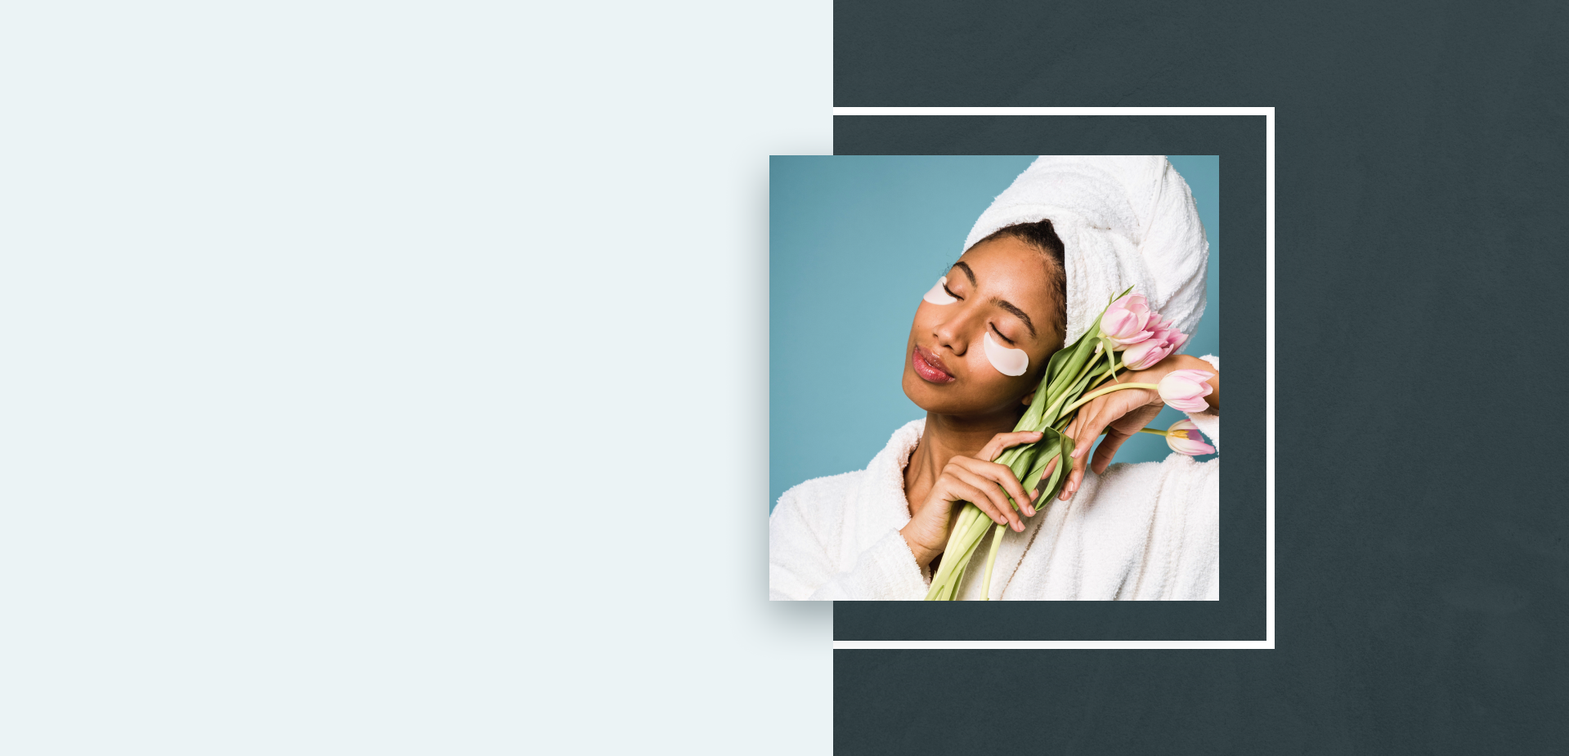
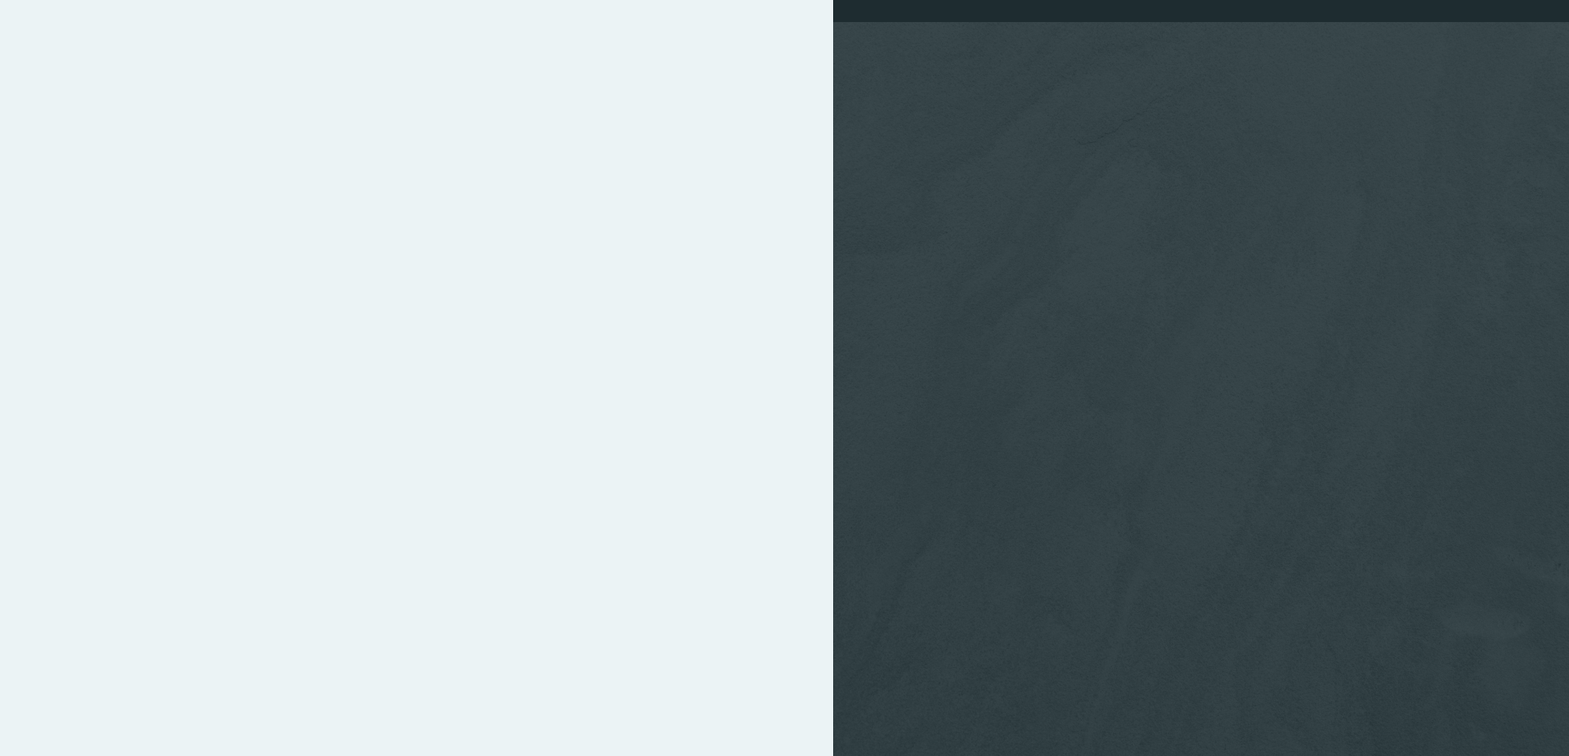
hero and forms inpruved

Changed region(s): [[0.4612, 0.1211, 0.8301, 0.8778], [0.5227, 0.0, 1.0, 0.0303]]

diff --git a/src/css/style.min.css b/src/css/style.min.css
@@ -1,1 +1,1 @@
-@import url(https://fonts.googleapis.com/css2?family=DM+Sans&family=Manrope:wght@400;500;600;700&family=Playfair:wght@400;700&display=swap);*{margin:0;padding:0;box-sizing:border-box;text-decoration:none;list-style-type:none;font-family:"Playfair Display"}body,html{height:100%}.wrapper{min-height:100%;display:flex;flex-direction:column}.main{flex:1 1 auto}.header{padding:38px 0;width:100%;background-color:#fff}.header__container{display:grid;grid-template-columns:5fr 5fr;justify-content:space-between;align-items:center;-moz-column-gap:10px;column-gap:10px;max-width:1680px;margin:0 auto;padding:0 60px}.header__start{display:flex;justify-content:space-between;align-items:center;max-width:502px}.header__logo{display:flex;justify-content:space-between;align-items:center;-moz-column-gap:8px;column-gap:8px}.header__logo_text{font-weight:700;font-size:1.75rem;line-height:125%;color:#141414}.header__call{display:flex;justify-content:space-between;align-items:center;-moz-column-gap:8px;column-gap:8px}.header__call_text{font-family:Manrope;font-weight:600;font-size:1.125rem;line-height:125%;letter-spacing:-.01em;color:#141414}.header__nav{display:grid;grid-template-columns:2fr .5fr 200px .5fr;-moz-column-gap:20px;column-gap:20px;justify-content:space-between;align-items:center}.header__menu{display:flex;justify-content:space-between;align-items:center;-moz-column-gap:10px;column-gap:10px}.header__menu_link{font-family:Manrope;font-weight:400;font-size:1.125rem;line-height:125%;color:#555}.header__sm{display:flex;justify-content:space-between;align-items:center;-moz-column-gap:10px;column-gap:10px}.header__btn{display:flex;justify-content:space-between;align-items:center;font-family:Manrope;font-weight:700;font-size:.875rem;line-height:125%;color:#fff;background-color:#7a9ca5;text-transform:uppercase;letter-spacing:12%;-moz-column-gap:12px;column-gap:12px;padding:16px 33px}.header__burger{display:flex;flex-direction:column;row-gap:5px;width:30px;opacity:0;position:absolute}.header__burger_item{width:100%;height:2px;background-color:#7a9ca5}.accordion{background-color:rgba(0,0,0,0);border:none;cursor:pointer;position:relative}.panel{background-color:#fff;padding:5px;text-align:center;overflow:hidden;display:none;border:1px #7a9ca5 solid;border-top:none;position:absolute;left:50%;margin-top:20px}.panel__item{font-family:Manrope;font-weight:400;font-size:1.1875rem;line-height:170%;color:#555;display:block}@media(max-width:1200px){.header__call{display:none}}@media(max-width:930px){.header__nav{grid-template-columns:.5fr 1fr .15fr}.header__menu{display:none}.header__burger{opacity:100%;position:relative}}@media(max-width:628px){.header__btn{display:none}.header__nav{grid-template-columns:1fr}.header__sm{display:none}.header__burger{justify-self:end;cursor:pointer}}.hero{background-image:url(../img/hero__bg.png);background-repeat:no-repeat;background-position:center top;background-size:100vw}.hero__container{max-width:1200px;margin:0 auto;padding:150px 0}.hero__suptitle{font-family:Manrope;font-weight:600;font-size:.9375rem;line-height:154.5%;letter-spacing:.1em;text-transform:uppercase;color:#7a9ca5;margin-bottom:9px;display:flex;align-items:center;-moz-column-gap:9px;column-gap:9px}.hero__title{font-weight:700;font-size:4.375rem;line-height:115%;letter-spacing:-.01em;color:#141414;max-width:510px}.hero__text{font-family:Manrope;font-weight:400;font-size:1.1875rem;line-height:170%;color:#555;max-width:508px;margin:24px 0 34px 0}.hero__btn{font-family:Manrope;font-weight:700;font-size:.875rem;line-height:125%;color:#fff;background-color:#7a9ca5;text-transform:uppercase;letter-spacing:12%;padding:24px 36px;display:inline-block}@media(max-width:1200px){.hero{background-color:#ebf3f5;background-image:none}.hero__cta{text-align:center}.hero__suptitle{margin:0 auto;display:inline-block}.hero__title{margin:0 auto}.hero__text{margin:0 auto;padding:24px 0 34px 0}}@media(max-width:628px){.hero__title{font-size:60px}}.therapie__container{display:flex;justify-content:space-between;align-items:center;max-width:1200px;margin:0 auto;padding:150px 0}.therapie__item{max-width:330px}.therapie__img_wrapper{width:330px;height:250px;overflow:hidden}.therapie__title{font-weight:700;font-size:1.625rem;line-height:120%;color:#141414;margin-top:26px}.therapie__text{font-family:Manrope;font-weight:400;font-size:1.1875rem;line-height:170%;color:#555;margin:11px 0 30px 0}.therapie__btn{font-family:Manrope;font-weight:800;font-size:.875rem;line-height:125%;text-align:center;letter-spacing:.12em;text-transform:uppercase;color:#141414;padding:18px 43px;border:2px #7a9ca5 solid;display:inline-block}@media(max-width:1200px){.therapie__container{flex-direction:column;row-gap:40px}.therapie__item{max-width:100%;text-align:center}.therapie__img_wrapper{width:100%;height:100%}}.about{background-color:#ebf3f5}.about__container{display:flex;justify-content:space-between;align-items:center;max-width:1200px;margin:0 auto;padding:150px 0}.about__cta{max-width:529px}.about__suptitle{font-family:Manrope;font-weight:600;font-size:.9375rem;line-height:154.5%;letter-spacing:.1em;text-transform:uppercase;color:#7a9ca5;margin-bottom:9px}.about__title{font-weight:700;font-size:2.8125rem;line-height:130%;letter-spacing:-.01em;color:#141414;max-width:377px}@media(max-width:1200px){.about__title{font-size:37px;margin:0 auto}}.about__text{font-family:Manrope;font-weight:400;font-size:1.1875rem;line-height:170%;color:#555;margin-top:16px}.about__ad{display:flex;justify-content:space-between;align-items:center;margin-top:37px;max-width:515px}.about__ad_item{display:flex;justify-content:space-between;align-items:center;flex-direction:column;row-gap:14px;background-color:#fff;padding:21px 11px;border:1px #1e2c30 solid;max-height:180px}.about__ad_title{font-weight:700;font-size:1.375rem;line-height:120%;color:#141414}@media(max-width:1200px){.about__container{flex-direction:column;row-gap:40px}.about__cta{margin:0 auto;text-align:center}}@media(max-width:628px){.about__img{width:80%;display:block;margin:0 auto}.about__ad{flex-direction:column;row-gap:20px}.about__ad_item{width:80%}}.testemonials{background-color:#ebf3f5}.testemonials__container{max-width:1200px;margin:0 auto;padding:150px 0}.testemonials__start{text-align:center}.testemonials__suptitle{font-family:Manrope;font-weight:600;font-size:.9375rem;line-height:154.5%;letter-spacing:.1em;text-transform:uppercase;color:#7a9ca5;margin-bottom:9px}.testemonials__title{font-weight:700;font-size:2.8125rem;line-height:130%;letter-spacing:-.01em;color:#141414}@media(max-width:1200px){.testemonials__title{font-size:37px;margin:0 auto}}.testemonials__item{max-width:582px}.testemonials__item_wrapper{display:flex;justify-content:space-between;align-items:center;margin-top:40px}.testemonials__text{font-family:Manrope;font-weight:400;font-size:1.1875rem;line-height:170%;color:#555;color:#141414;max-width:485px}.testemonials__text_wrapper{background-color:#fff;padding:44px}.testemonials__info{display:flex;justify-content:space-between;align-items:center;background-color:#1e2c30;padding:44px}.testemonials__img{border:5px #fff solid}.testemonials__img_wrapper{width:74px;height:74px}.testemonials__user{display:flex;justify-content:space-between;align-items:center;-moz-column-gap:20px;column-gap:20px}.testemonials__user_info{color:#fff}@media(max-width:1200px){.testemonials__item_wrapper{flex-direction:column;row-gap:40px}}@media(max-width:628px){.testemonials__info{justify-content:center}.testemonials__brakets{display:none}}.advent__container{max-width:1200px;margin:0 auto;padding:150px 0}.advent__start{text-align:center}.advent__suptitle{font-family:Manrope;font-weight:600;font-size:.9375rem;line-height:154.5%;letter-spacing:.1em;text-transform:uppercase;color:#7a9ca5;margin-bottom:9px}.advent__title{font-weight:700;font-size:2.8125rem;line-height:130%;letter-spacing:-.01em;color:#141414}@media(max-width:1200px){.advent__title{font-size:37px;margin:0 auto}}.advent__item_wrapper{margin-top:43px;display:grid;grid-template-columns:repeat(3,1fr);justify-content:space-between;gap:35px}.advent__item_title{font-weight:700;font-size:1.625rem;line-height:120%;color:#141414;margin-top:20px;max-width:320px}.advent__item_text{font-family:Manrope;font-weight:400;font-size:1.1875rem;line-height:170%;color:#555;margin-top:11px}@media(max-width:1200px){.advent__item{text-align:center}.advent__item_wrapper{grid-template-columns:repeat(2,1fr)}.advent__item_title{margin:0 auto}.advent__img{margin-bottom:20px}}@media(max-width:930px){.advent__item_wrapper{grid-template-columns:1fr}}.services__container{max-width:1200px;margin:0 auto;padding:150px 0}.services__start{text-align:center;max-width:659px;margin:0 auto}.services__suptitle{font-family:Manrope;font-weight:600;font-size:.9375rem;line-height:154.5%;letter-spacing:.1em;text-transform:uppercase;color:#7a9ca5;margin-bottom:9px}.services__title{font-weight:700;font-size:2.8125rem;line-height:130%;letter-spacing:-.01em;color:#141414}@media(max-width:1200px){.services__title{font-size:37px;margin:0 auto}}.services__btn{text-transform:uppercase;text-align:center;padding:24px 34px;background-color:#fff;border:2px #5c8692 solid;display:inline-block;margin-top:58px;font-family:Manrope;font-weight:800;font-size:.875rem;line-height:125%;letter-spacing:.12em;color:#141414}.services__item_wrapper{display:grid;grid-template-columns:repeat(2,1fr);justify-content:space-between;margin-top:50px;background-image:url(../img/services__bg.png);background-repeat:no-repeat;background-position:center center}.services__menu{max-width:530px!important}.services__menu_item{padding-bottom:22px;border-bottom:1px #9bb7bf solid}.services__menu_title{font-family:"Playfair Display";font-weight:700;font-size:1.375rem;line-height:130%;color:#141414}.services__menu_text{font-family:Manrope;font-weight:400;font-size:1.1875rem;line-height:170%;color:#555}.order{order:2}@media(max-width:1200px){.services__item{justify-self:center!important;align-self:stretch;text-align:center}.services__item_wrapper{grid-template-columns:1fr;background-image:none;gap:40px}.services__btn_wrapper{margin:0 auto;text-align:center}.order{order:0}}@media(max-width:628px){.services__img{width:70%;display:block;margin:0 auto}}.flat{background-color:#edf5f7}.flat__container{max-width:1200px;margin:0 auto;padding:150px 0;display:flex;justify-content:space-between;align-items:center}.flat__cta{max-width:534px}.flat__suptitle{font-family:Manrope;font-weight:600;font-size:.9375rem;line-height:154.5%;letter-spacing:.1em;text-transform:uppercase;color:#7a9ca5;margin-bottom:9px}.flat__title{font-weight:700;font-size:2.8125rem;line-height:130%;letter-spacing:-.01em;color:#141414;max-width:435px}@media(max-width:1200px){.flat__title{font-size:37px;margin:0 auto}}.flat__text{font-family:Manrope;font-weight:400;font-size:1.1875rem;line-height:170%;color:#555;margin-top:14px}.flat__offer{display:flex;justify-content:space-between;align-items:center;max-width:445px;margin-top:37px}.flat__offer_container{background-color:#fff;padding:19px 40px;display:flex;flex-direction:column;row-gap:18px}.flat__offer_item{display:flex;-moz-column-gap:19px;column-gap:19px}.flat__offer_dots{display:flex;-moz-column-gap:6px;column-gap:6px;padding-top:8px}.flat__offer_dot{width:6px;height:6px;background-color:#5c8692;border-radius:50%;display:block}.flat__offer_title{font-weight:800;text-transform:uppercase;font-family:Manrope;font-size:.9375rem;line-height:150%;color:#141414;letter-spacing:8%}.flat__offer_text{font-weight:500;font-family:Manrope;font-size:.9375rem;line-height:150%;color:#141414}.flat__sale{padding:12px 34px;background-color:#1e2c30;color:#fff!important;display:flex;flex-direction:column;align-items:center;text-align:center}.flat__sale_title{font-family:Manrope;font-weight:800;font-size:1.125rem;line-height:175%;text-transform:uppercase}.flat__sale_text{font-family:Manrope;font-weight:800;font-size:1.125rem;line-height:175%;letter-spacing:.02em}.flat__sale .big__text{font-family:Manrope;font-weight:900;font-size:48px}.flat__sale .normal__text{font-family:Manrope;font-weight:400;font-size:20px}.flat__form{padding:66px 75px;background-color:#fff;display:flex;flex-direction:column;row-gap:15px;width:47%}.flat__form_item{border:1px #7a9ca5 solid;padding:18px;display:flex}.flat__form_input{font-family:Manrope;font-weight:400;font-size:1.1875rem;line-height:170%;color:#555;width:100%;height:29px;border:none;padding:0 15px;outline:0}.flat__form_btn{font-family:Manrope;font-weight:700;font-size:.875rem;line-height:125%;color:#fff;background-color:#7a9ca5;text-transform:uppercase;letter-spacing:12%;border:none;padding:23px;cursor:pointer}@media(max-width:1200px){.flat__container{flex-direction:column;row-gap:40px}.flat__cta{margin:0 auto;text-align:center}.flat__offer{margin:0 auto;padding-top:37px;text-align:left}.flat__form{width:80%;align-items:center}}@media(max-width:628px){.flat__offer{flex-direction:column;width:70%}.flat__offer_container{width:100%}.flat__offer_item{flex-direction:column;row-gap:10px}.flat__sale{width:100%}}.blog__container{max-width:1200px;margin:0 auto;padding:150px 0}.blog__start{text-align:center}.blog__suptitle{font-family:Manrope;font-weight:600;font-size:.9375rem;line-height:154.5%;letter-spacing:.1em;text-transform:uppercase;color:#7a9ca5;margin-bottom:9px}.blog__title{font-weight:700;font-size:2.8125rem;line-height:130%;letter-spacing:-.01em;color:#141414}@media(max-width:1200px){.blog__title{font-size:37px;margin:0 auto}}.blog__item{max-width:370px}.blog__item_wrapper{display:flex;justify-content:space-between;align-items:center;margin-top:40px}.blog__item_img{display:flex;width:100%}.blog__item_title{font-weight:700;font-size:1.375rem;line-height:140%;max-width:280px;letter-spacing:2%;margin-top:8px}.blog__item_text{font-family:Manrope;font-weight:400;font-size:1.1875rem;line-height:170%;color:#555}.blog__info{padding:30px 27px;background-color:#ebf3f5}.blog__date{display:flex;justify-content:space-between;align-items:center}.blog__date_text{font-family:Manrope;font-weight:700;font-size:.8125rem;line-height:125%;letter-spacing:.06em;text-transform:uppercase;color:#7a9ca5}.blog__btn{padding:23px 40px;background-color:#fff;color:#141414;text-transform:uppercase;font-family:Manrope;font-weight:800;font-size:.875rem;line-height:125%;letter-spacing:.02em;border:2px #7a9ca5 solid;display:inline-block}.blog__btn_wrapper{text-align:center;margin-top:60px}.line{width:19px;height:2px;border-color:#272d32;display:block}@media(max-width:1200px){.blog__item{max-width:80%}.blog__item_wrapper{flex-direction:column;row-gap:40px}}@media(max-width:628px){.blog__date{flex-direction:column;row-gap:10px}}.footer{width:100%;background-color:#1e2c30}.footer__container{max-width:1200px;margin:0 auto;padding:150px 0;padding:60px 0}.footer__start{display:flex;justify-content:space-between;align-items:center}.footer__logo{display:flex;justify-content:space-between;align-items:center;-moz-column-gap:17px;column-gap:17px}.footer__logo_text{font-weight:700;font-size:1.75rem;line-height:125%;color:#fff}.footer__sm{display:flex;justify-content:space-between;align-items:center;-moz-column-gap:10px;column-gap:10px}.footer__sm_item{padding:17px 22px;border:2px #7a9ca5 solid}.footer__offer{display:grid;grid-template-columns:.5fr .5fr .5fr .25fr;justify-content:space-between;margin-top:66px;color:#fff}.footer__offer_item{display:flex;flex-direction:column;row-gap:21px}.footer__offer_title{font-weight:700;font-size:1.375rem;line-height:140%}.footer__menu{display:flex;flex-direction:column;row-gap:14px}.footer__menu_link{font-family:Manrope;font-weight:500;font-size:1.0625rem;line-height:200%;letter-spacing:-.01em;color:#fff}.footer__row{width:100%;background-color:#111e22;color:#fff;text-align:center;padding:20px 0}.footer__row_text{font-family:Manrope;font-weight:400;font-size:.9375rem;line-height:200%;letter-spacing:-.01em}@media(max-width:1200px){.footer__offer{grid-template-columns:repeat(2,1fr);text-align:center;gap:40px}.footer__offer_item{justify-self:center}}@media(max-width:628px){.footer__start{flex-direction:column;row-gap:40px}.footer__offer{grid-template-columns:1fr}}
+@import url(https://fonts.googleapis.com/css2?family=DM+Sans&family=Manrope:wght@400;500;600;700&family=Playfair:wght@400;700&display=swap);*{margin:0;padding:0;box-sizing:border-box;text-decoration:none;list-style-type:none;font-family:"Playfair Display"}body,html{height:100%}.wrapper{min-height:100%;display:flex;flex-direction:column}.main{flex:1 1 auto}.header{padding:38px 0;width:100%;background-color:#fff;position:sticky;top:0;z-index:99;box-shadow:0 6px 5px 0 rgba(0,0,0,.23)}.header__container{display:grid;grid-template-columns:5fr 5fr;justify-content:space-between;align-items:center;-moz-column-gap:10px;column-gap:10px;max-width:1680px;margin:0 auto;padding:0 60px}.header__start{display:flex;justify-content:space-between;align-items:center;max-width:502px}.header__logo{display:flex;justify-content:space-between;align-items:center;-moz-column-gap:8px;column-gap:8px}.header__logo_text{font-weight:700;font-size:1.75rem;line-height:125%;color:#141414}.header__call{display:flex;justify-content:space-between;align-items:center;-moz-column-gap:8px;column-gap:8px}.header__call_text{font-family:Manrope;font-weight:600;font-size:1.125rem;line-height:125%;letter-spacing:-.01em;color:#141414}.header__nav{display:grid;grid-template-columns:2fr .5fr 200px .5fr;-moz-column-gap:20px;column-gap:20px;justify-content:space-between;align-items:center}.header__menu{display:flex;justify-content:space-between;align-items:center;-moz-column-gap:10px;column-gap:10px}.header__menu_link{font-family:Manrope;font-weight:400;font-size:1.125rem;line-height:125%;color:#555}.header__sm{display:flex;justify-content:space-between;align-items:center;-moz-column-gap:10px;column-gap:10px}.header__btn{display:flex;justify-content:space-between;align-items:center;font-family:Manrope;font-weight:700;font-size:.875rem;line-height:125%;color:#fff;background-color:#7a9ca5;text-transform:uppercase;letter-spacing:12%;-moz-column-gap:12px;column-gap:12px;padding:16px 33px}.header__burger{display:flex;flex-direction:column;row-gap:5px;width:30px;opacity:0;position:absolute}.header__burger_item{width:100%;height:2px;background-color:#7a9ca5}.accordion{background-color:rgba(0,0,0,0);border:none;cursor:pointer;position:relative}.panel{background-color:#fff;padding:5px;text-align:center;overflow:hidden;display:none;border:1px #7a9ca5 solid;border-top:none;position:absolute;left:50%;margin-top:20px}.panel__item{font-family:Manrope;font-weight:400;font-size:1.1875rem;line-height:170%;color:#555;display:block}@media(max-width:1200px){.header__call{display:none}}@media(max-width:930px){.header__nav{grid-template-columns:.5fr 1fr .15fr}.header__menu{display:none}.header__burger{opacity:100%;position:relative}}@media(max-width:628px){.header__btn{display:none}.header__nav{grid-template-columns:1fr}.header__sm{display:none}.header__burger{justify-self:end;cursor:pointer}}.hero{background-image:url(../img/hero__bg.png);background-repeat:no-repeat;background-position:center top;background-size:100vw 100%}.hero__container{max-width:1200px;margin:0 auto;padding:150px 0;display:flex;justify-content:space-between;align-items:center}.hero__cta{background-color:#ebf3f5;z-index:5}.hero__suptitle{font-family:Manrope;font-weight:600;font-size:.9375rem;line-height:154.5%;letter-spacing:.1em;text-transform:uppercase;color:#7a9ca5;margin-bottom:9px;display:flex;align-items:center;-moz-column-gap:9px;column-gap:9px}.hero__title{font-weight:700;font-size:4.375rem;line-height:115%;letter-spacing:-.01em;color:#141414;max-width:510px}.hero__text{font-family:Manrope;font-weight:400;font-size:1.1875rem;line-height:170%;color:#555;max-width:508px;margin:24px 0 34px 0}.hero__btn{font-family:Manrope;font-weight:700;font-size:.875rem;line-height:125%;color:#fff;background-color:#7a9ca5;text-transform:uppercase;letter-spacing:12%;padding:24px 36px;display:inline-block}.hero__img{z-index:5}.hero__img_wrapper{position:relative;max-width:550px;max-height:545px!important;z-index:10;right:9%;display:flex;align-items:center}.hero__img_wrapper::after{content:"";position:absolute;width:78%;height:100%;padding:50px;border:10px #fff solid;right:0;left:18%;border-left:none}@media(max-width:1200px){.hero{background-color:#ebf3f5;background-image:none}.hero__cta{text-align:center}.hero__suptitle{margin:0 auto;display:inline-block}.hero__title{margin:0 auto}.hero__text{margin:0 auto;padding:24px 0 34px 0}.hero__img_wrapper{display:none}}@media(max-width:628px){.hero__title{font-size:60px}}.therapie__container{display:flex;justify-content:space-between;align-items:center;max-width:1200px;margin:0 auto;padding:150px 0}.therapie__item{max-width:330px}.therapie__img_wrapper{width:330px;height:250px;overflow:hidden}.therapie__title{font-weight:700;font-size:1.625rem;line-height:120%;color:#141414;margin-top:26px}.therapie__text{font-family:Manrope;font-weight:400;font-size:1.1875rem;line-height:170%;color:#555;margin:11px 0 30px 0}.therapie__btn{font-family:Manrope;font-weight:800;font-size:.875rem;line-height:125%;text-align:center;letter-spacing:.12em;text-transform:uppercase;color:#141414;padding:18px 43px;border:2px #7a9ca5 solid;display:inline-block}@media(max-width:1200px){.therapie__container{flex-direction:column;row-gap:40px}.therapie__item{max-width:100%;text-align:center}.therapie__img_wrapper{width:100%;height:100%}}.about{background-color:#ebf3f5}.about__container{display:flex;justify-content:space-between;align-items:center;max-width:1200px;margin:0 auto;padding:150px 0}.about__cta{max-width:529px}.about__suptitle{font-family:Manrope;font-weight:600;font-size:.9375rem;line-height:154.5%;letter-spacing:.1em;text-transform:uppercase;color:#7a9ca5;margin-bottom:9px}.about__title{font-weight:700;font-size:2.8125rem;line-height:130%;letter-spacing:-.01em;color:#141414;max-width:377px}@media(max-width:1200px){.about__title{font-size:37px;margin:0 auto}}.about__text{font-family:Manrope;font-weight:400;font-size:1.1875rem;line-height:170%;color:#555;margin-top:16px}.about__ad{display:flex;justify-content:space-between;align-items:center;margin-top:37px;max-width:515px}.about__ad_item{display:flex;justify-content:space-between;align-items:center;flex-direction:column;row-gap:14px;background-color:#fff;padding:21px 11px;border:1px #1e2c30 solid;max-height:180px}.about__ad_title{font-weight:700;font-size:1.375rem;line-height:120%;color:#141414}@media(max-width:1200px){.about__container{flex-direction:column;row-gap:40px}.about__cta{margin:0 auto;text-align:center}}@media(max-width:628px){.about__img{width:80%;display:block;margin:0 auto}.about__ad{flex-direction:column;row-gap:20px}.about__ad_item{width:80%}}.testemonials{background-color:#ebf3f5}.testemonials__container{max-width:1200px;margin:0 auto;padding:150px 0}.testemonials__start{text-align:center}.testemonials__suptitle{font-family:Manrope;font-weight:600;font-size:.9375rem;line-height:154.5%;letter-spacing:.1em;text-transform:uppercase;color:#7a9ca5;margin-bottom:9px}.testemonials__title{font-weight:700;font-size:2.8125rem;line-height:130%;letter-spacing:-.01em;color:#141414}@media(max-width:1200px){.testemonials__title{font-size:37px;margin:0 auto}}.testemonials__item{max-width:582px}.testemonials__item_wrapper{display:flex;justify-content:space-between;align-items:center;margin-top:40px}.testemonials__text{font-family:Manrope;font-weight:400;font-size:1.1875rem;line-height:170%;color:#555;color:#141414;max-width:485px}.testemonials__text_wrapper{background-color:#fff;padding:44px}.testemonials__info{display:flex;justify-content:space-between;align-items:center;background-color:#1e2c30;padding:44px}.testemonials__img{border:5px #fff solid}.testemonials__img_wrapper{width:74px;height:74px}.testemonials__user{display:flex;justify-content:space-between;align-items:center;-moz-column-gap:20px;column-gap:20px}.testemonials__user_info{color:#fff}@media(max-width:1200px){.testemonials__item_wrapper{flex-direction:column;row-gap:40px}}@media(max-width:628px){.testemonials__info{justify-content:center}.testemonials__brakets{display:none}}.advent__container{max-width:1200px;margin:0 auto;padding:150px 0}.advent__start{text-align:center}.advent__suptitle{font-family:Manrope;font-weight:600;font-size:.9375rem;line-height:154.5%;letter-spacing:.1em;text-transform:uppercase;color:#7a9ca5;margin-bottom:9px}.advent__title{font-weight:700;font-size:2.8125rem;line-height:130%;letter-spacing:-.01em;color:#141414}@media(max-width:1200px){.advent__title{font-size:37px;margin:0 auto}}.advent__item_wrapper{margin-top:43px;display:grid;grid-template-columns:repeat(3,1fr);justify-content:space-between;gap:35px}.advent__item_title{font-weight:700;font-size:1.625rem;line-height:120%;color:#141414;margin-top:20px;max-width:320px}.advent__item_text{font-family:Manrope;font-weight:400;font-size:1.1875rem;line-height:170%;color:#555;margin-top:11px}@media(max-width:1200px){.advent__item{text-align:center}.advent__item_wrapper{grid-template-columns:repeat(2,1fr)}.advent__item_title{margin:0 auto}.advent__img{margin-bottom:20px}}@media(max-width:930px){.advent__item_wrapper{grid-template-columns:1fr}}.services__container{max-width:1200px;margin:0 auto;padding:150px 0}.services__start{text-align:center;max-width:659px;margin:0 auto}.services__suptitle{font-family:Manrope;font-weight:600;font-size:.9375rem;line-height:154.5%;letter-spacing:.1em;text-transform:uppercase;color:#7a9ca5;margin-bottom:9px}.services__title{font-weight:700;font-size:2.8125rem;line-height:130%;letter-spacing:-.01em;color:#141414}@media(max-width:1200px){.services__title{font-size:37px;margin:0 auto}}.services__btn{text-transform:uppercase;text-align:center;padding:24px 34px;background-color:#fff;border:2px #5c8692 solid;display:inline-block;margin-top:58px;font-family:Manrope;font-weight:800;font-size:.875rem;line-height:125%;letter-spacing:.12em;color:#141414}.services__item_wrapper{display:grid;grid-template-columns:repeat(2,1fr);justify-content:space-between;margin-top:50px;background-image:url(../img/services__bg.png);background-repeat:no-repeat;background-position:center center}.services__menu{max-width:530px!important}.services__menu_item{padding-bottom:22px;border-bottom:1px #9bb7bf solid}.services__menu_title{font-family:"Playfair Display";font-weight:700;font-size:1.375rem;line-height:130%;color:#141414}.services__menu_text{font-family:Manrope;font-weight:400;font-size:1.1875rem;line-height:170%;color:#555}.order{order:2}@media(max-width:1200px){.services__item{justify-self:center!important;align-self:stretch;text-align:center}.services__item_wrapper{grid-template-columns:1fr;background-image:none;gap:40px}.services__btn_wrapper{margin:0 auto;text-align:center}.order{order:0}}@media(max-width:628px){.services__img{width:70%;display:block;margin:0 auto}}.flat{background-color:#edf5f7}.flat__container{max-width:1200px;margin:0 auto;padding:150px 0;display:flex;justify-content:space-between;align-items:center}.flat__cta{max-width:534px}.flat__suptitle{font-family:Manrope;font-weight:600;font-size:.9375rem;line-height:154.5%;letter-spacing:.1em;text-transform:uppercase;color:#7a9ca5;margin-bottom:9px}.flat__title{font-weight:700;font-size:2.8125rem;line-height:130%;letter-spacing:-.01em;color:#141414;max-width:435px}@media(max-width:1200px){.flat__title{font-size:37px;margin:0 auto}}.flat__text{font-family:Manrope;font-weight:400;font-size:1.1875rem;line-height:170%;color:#555;margin-top:14px}.flat__offer{display:flex;justify-content:space-between;align-items:center;max-width:445px;margin-top:37px}.flat__offer_container{background-color:#fff;padding:19px 40px;display:flex;flex-direction:column;row-gap:18px}.flat__offer_item{display:flex;-moz-column-gap:19px;column-gap:19px}.flat__offer_dots{display:flex;-moz-column-gap:6px;column-gap:6px;padding-top:8px}.flat__offer_dot{width:6px;height:6px;background-color:#5c8692;border-radius:50%;display:block}.flat__offer_title{font-weight:800;text-transform:uppercase;font-family:Manrope;font-size:.9375rem;line-height:150%;color:#141414;letter-spacing:8%}.flat__offer_text{font-weight:500;font-family:Manrope;font-size:.9375rem;line-height:150%;color:#141414}.flat__sale{padding:12px 34px;background-color:#1e2c30;color:#fff!important;display:flex;flex-direction:column;align-items:center;text-align:center}.flat__sale_title{font-family:Manrope;font-weight:800;font-size:1.125rem;line-height:175%;text-transform:uppercase}.flat__sale_text{font-family:Manrope;font-weight:800;font-size:1.125rem;line-height:175%;letter-spacing:.02em}.flat__sale .big__text{font-family:Manrope;font-weight:900;font-size:48px}.flat__sale .normal__text{font-family:Manrope;font-weight:400;font-size:20px}.flat__form{padding:66px 75px;background-color:#fff;display:flex;flex-direction:column;row-gap:15px;width:47%}.flat__form_item{border:1px #7a9ca5 solid;padding:18px;display:flex}.flat__form_input{font-family:Manrope;font-weight:400;font-size:1.1875rem;line-height:170%;color:#555;width:100%;height:29px;border:none;padding:0 15px;outline:0}.flat__form_btn{font-family:Manrope;font-weight:700;font-size:.875rem;line-height:125%;color:#fff;background-color:#7a9ca5;text-transform:uppercase;letter-spacing:12%;border:none;padding:23px;cursor:pointer}@media(max-width:1200px){.flat__container{flex-direction:column;row-gap:40px}.flat__cta{margin:0 auto;text-align:center}.flat__offer{margin:0 auto;padding-top:37px;text-align:left}.flat__form{width:80%;align-items:center}}@media(max-width:628px){.flat__offer{flex-direction:column;width:70%}.flat__offer_container{width:100%}.flat__offer_item{flex-direction:column;row-gap:10px}.flat__sale{width:100%}}.blog__container{max-width:1200px;margin:0 auto;padding:150px 0}.blog__start{text-align:center}.blog__suptitle{font-family:Manrope;font-weight:600;font-size:.9375rem;line-height:154.5%;letter-spacing:.1em;text-transform:uppercase;color:#7a9ca5;margin-bottom:9px}.blog__title{font-weight:700;font-size:2.8125rem;line-height:130%;letter-spacing:-.01em;color:#141414}@media(max-width:1200px){.blog__title{font-size:37px;margin:0 auto}}.blog__item{max-width:370px}.blog__item_wrapper{display:flex;justify-content:space-between;align-items:center;margin-top:40px}.blog__item_img{display:flex;width:100%}.blog__item_title{font-weight:700;font-size:1.375rem;line-height:140%;max-width:280px;letter-spacing:2%;margin-top:8px}.blog__item_text{font-family:Manrope;font-weight:400;font-size:1.1875rem;line-height:170%;color:#555}.blog__info{padding:30px 27px;background-color:#ebf3f5}.blog__date{display:flex;justify-content:space-between;align-items:center}.blog__date_text{font-family:Manrope;font-weight:700;font-size:.8125rem;line-height:125%;letter-spacing:.06em;text-transform:uppercase;color:#7a9ca5}.blog__btn{padding:23px 40px;background-color:#fff;color:#141414;text-transform:uppercase;font-family:Manrope;font-weight:800;font-size:.875rem;line-height:125%;letter-spacing:.02em;border:2px #7a9ca5 solid;display:inline-block}.blog__btn_wrapper{text-align:center;margin-top:60px}.line{width:19px;height:2px;border-color:#272d32;display:block}@media(max-width:1200px){.blog__item{max-width:80%}.blog__item_wrapper{flex-direction:column;row-gap:40px}}@media(max-width:628px){.blog__date{flex-direction:column;row-gap:10px}}.footer{width:100%;background-color:#1e2c30}.footer__container{max-width:1200px;margin:0 auto;padding:150px 0;padding:60px 0}.footer__start{display:flex;justify-content:space-between;align-items:center}.footer__logo{display:flex;justify-content:space-between;align-items:center;-moz-column-gap:17px;column-gap:17px}.footer__logo_text{font-weight:700;font-size:1.75rem;line-height:125%;color:#fff}.footer__sm{display:flex;justify-content:space-between;align-items:center;-moz-column-gap:10px;column-gap:10px}.footer__sm_item{padding:17px 22px;border:2px #7a9ca5 solid}.footer__offer{display:grid;grid-template-columns:.5fr .5fr .5fr .25fr;justify-content:space-between;margin-top:66px;color:#fff}.footer__offer_item{display:flex;flex-direction:column;row-gap:21px}.footer__offer_title{font-weight:700;font-size:1.375rem;line-height:140%}.footer__menu{display:flex;flex-direction:column;row-gap:14px}.footer__menu_link{font-family:Manrope;font-weight:500;font-size:1.0625rem;line-height:200%;letter-spacing:-.01em;color:#fff}.footer__row{width:100%;background-color:#111e22;color:#fff;text-align:center;padding:20px 0}.footer__row_text{font-family:Manrope;font-weight:400;font-size:.9375rem;line-height:200%;letter-spacing:-.01em}@media(max-width:1200px){.footer__offer{grid-template-columns:repeat(2,1fr);text-align:center;gap:40px}.footer__offer_item{justify-self:center}}@media(max-width:628px){.footer__start{flex-direction:column;row-gap:40px}.footer__offer{grid-template-columns:1fr}}

diff --git a/src/sass/style.scss b/src/sass/style.scss
@@ -82,6 +82,12 @@ $secondary-color: #555555;
   padding: 38px 0;
   width: 100%;
   background-color: $light-color;
+  position: sticky;
+  top: 0;
+  z-index: 99;
+  -webkit-box-shadow: 0px 6px 5px 0px rgba(0, 0, 0, 0.23);
+  -moz-box-shadow: 0px 6px 5px 0px rgba(0, 0, 0, 0.23);
+  box-shadow: 0px 6px 5px 0px rgba(0, 0, 0, 0.23);
   &__container {
     display: grid;
     grid-template-columns: 5fr 5fr;
@@ -232,9 +238,15 @@ $secondary-color: #555555;
   background-image: url("../img/hero__bg.png");
   background-repeat: no-repeat;
   background-position: center top;
-  background-size: 100vw;
+  background-size: 100vw 100%;
   &__container {
     @include container();
+    @include flex();
+  }
+
+  &__cta {
+    background-color: $light-primary-color;
+    z-index: 5;
   }
 
   &__suptitle {
@@ -264,6 +276,30 @@ $secondary-color: #555555;
     padding: 24px 36px;
     display: inline-block;
   }
+  &__img {
+    z-index: 5;
+    &_wrapper {
+      position: relative;
+      max-width: 550px;
+      max-height: 545px !important;
+      z-index: 10;
+      right: 9%;
+      display: flex;
+      align-items: center;
+
+      &::after {
+        content: "";
+        position: absolute;
+        width: 78%;
+        height: 100%;
+        padding: 50px;
+        border: 10px $light-color solid;
+        right: 0;
+        left: 18%;
+        border-left: none;
+      }
+    }
+  }
 }
 @media (max-width: 1200px) {
   .hero {
@@ -282,6 +318,11 @@ $secondary-color: #555555;
     &__text {
       margin: 0 auto;
       padding: 24px 0 34px 0;
+    }
+    &__img {
+      &_wrapper {
+        display: none;
+      }
     }
   }
 }

diff --git a/src/index.html b/src/index.html
@@ -91,6 +91,9 @@
               </p>
               <a href="#" class="hero__btn">Make a reservation</a>
             </div>
+            <div class="hero__img_wrapper">
+              <img src="img/hero__img.png" alt="" class="hero__img" />
+            </div>
           </div>
         </section>
         <section class="therapie">
@@ -493,6 +496,7 @@
                   type="text"
                   class="flat__form_input"
                   placeholder="Name"
+                  required
                 />
               </label>
               <label for="" class="flat__form_item">
@@ -501,6 +505,7 @@
                   type="email"
                   class="flat__form_input"
                   placeholder="Email"
+                  required
                 />
               </label>
               <label for="" class="flat__form_item">
@@ -509,6 +514,7 @@
                   type="tel"
                   class="flat__form_input"
                   placeholder="Phone"
+                  required
                 />
               </label>
               <label for="" class="flat__form_item">
@@ -516,6 +522,7 @@
                 <input
                   type="text"
                   class="flat__form_input"
+                  required
                   placeholder="Service You Need"
                 />
               </label>
@@ -529,6 +536,7 @@
                   type="text"
                   class="flat__form_input"
                   placeholder="Any Note For Us"
+                  required
                 />
               </label>
               <input
